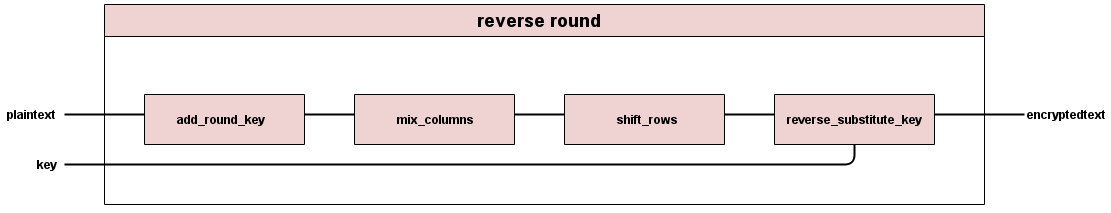
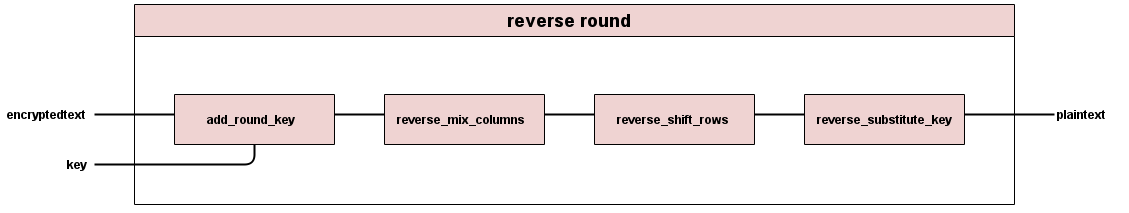
Schematics done, waiting on Key Exapnsion blurb

diff --git a/schematics.html b/schematics.html
@@ -52,15 +52,15 @@
 										<section>
 											<header>
 												<h2>Schematics</h2>
-												<h3>Figures and diagrams detailing our process</h3>
+												<h1>Figures and diagrams detailing our encryptor and decryptor structure</h1>
 											</header>
 											<p>
 												We hope that these figures help you see how we created our code.
 											</p>
-											<h2>Encryption</h2>
+											<h3>Encryption</h3>
 											<img src="images/CipherEncryption.png" width=1100px height=250px alt="Schematic of High Level Encryption Module"/>
 											<p>
-												The schematic of the high level encryption module shows that our AES encryptor is composed of the Key Expansion module and the Round module. 
+												The schematic of the high level encryption module shows that our AES encryptor is composed of Key Expansion module, Add Round Key module, Round module, and Final Round Module which are further explained below. Since there are nine intermediate rounds, we use the Round module nine times in sequence. Each Round takes the corresponding key from Key Expansion module in ascending order.
 											</p>
 											<img src="images/KeyExpansion.png" width=1000px height=350px alt="Schematic of Key Expansion"/>
 											<p>
@@ -68,17 +68,25 @@
 											</p>
 											<img src="images/encryption-round.png" width=1000px height=200px alt="Schematic of Round"/>
 											<p>
-												
+												Each intermediate Round goes through four operations: substitute byte, shift rows, mix columns, and add round key. 
+											</p>
+											<img src="images/finalround.png" width=800px height=200px alt="Schematic of Final Round"/>
+											<p>
+												The Final Round goes through three operations: substitute byte, shift rows, and add round key. 
 											</p>
 
-											<h2>Decryption</h2>
+											<h3>Decryption</h3>
 											<img src="images/CipherDecryption.png" width=1100px height=225px alt="Schematic of High Level Decryption Module"/>
 											<p>
-												The schematic of the high level encryption module shows that our AES encryptor is composed of the Key Expansion module and the Round module. 
+												The schematic of the high level decryption module shows that our AES decryptor is composed of Key Expansion module, First Round module, Reverse Round module, and Add Round Key module. Since there are nine intermediate rounds, we use the Reverse Round module nine times in sequence. Each Reverse Round takes the corresponding key from Key Expansion module in descending order.
 											</p>
 											<img src="images/decryption-round.png" width=1000px height=200px alt="Schematic of Reverse Round"/>
 											<p>
-												
+												Each intermediate Reverse Round goes through four operations: add round key, reverse mix columns, reverse shift rows, and reverse substitute byte.
+											</p>
+											<img src="images/firstround.png" width=800px height=200px alt="Schematic of First Round"/>
+											<p>
+												The First Round goes through three operations: add round key, reverse shift rows, and reverse substitute byte. 
 											</p>
 										</section>
 
